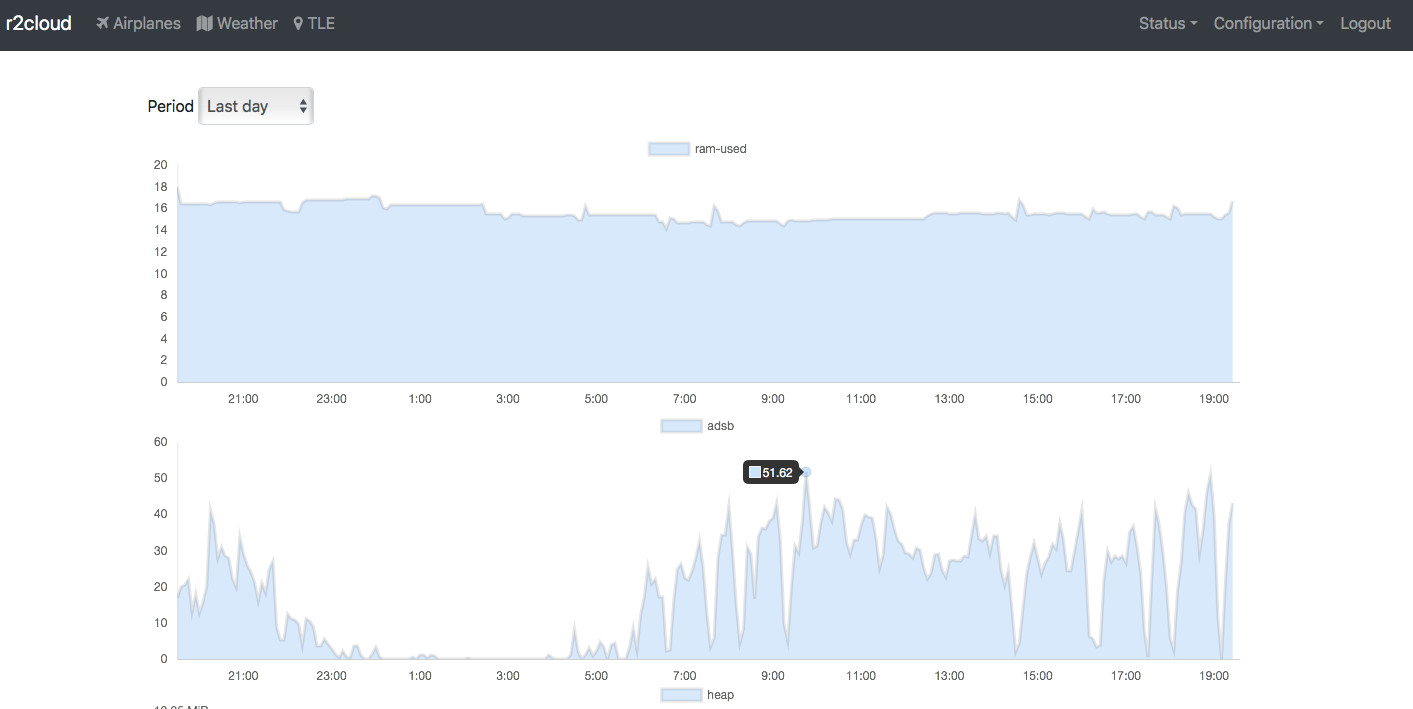
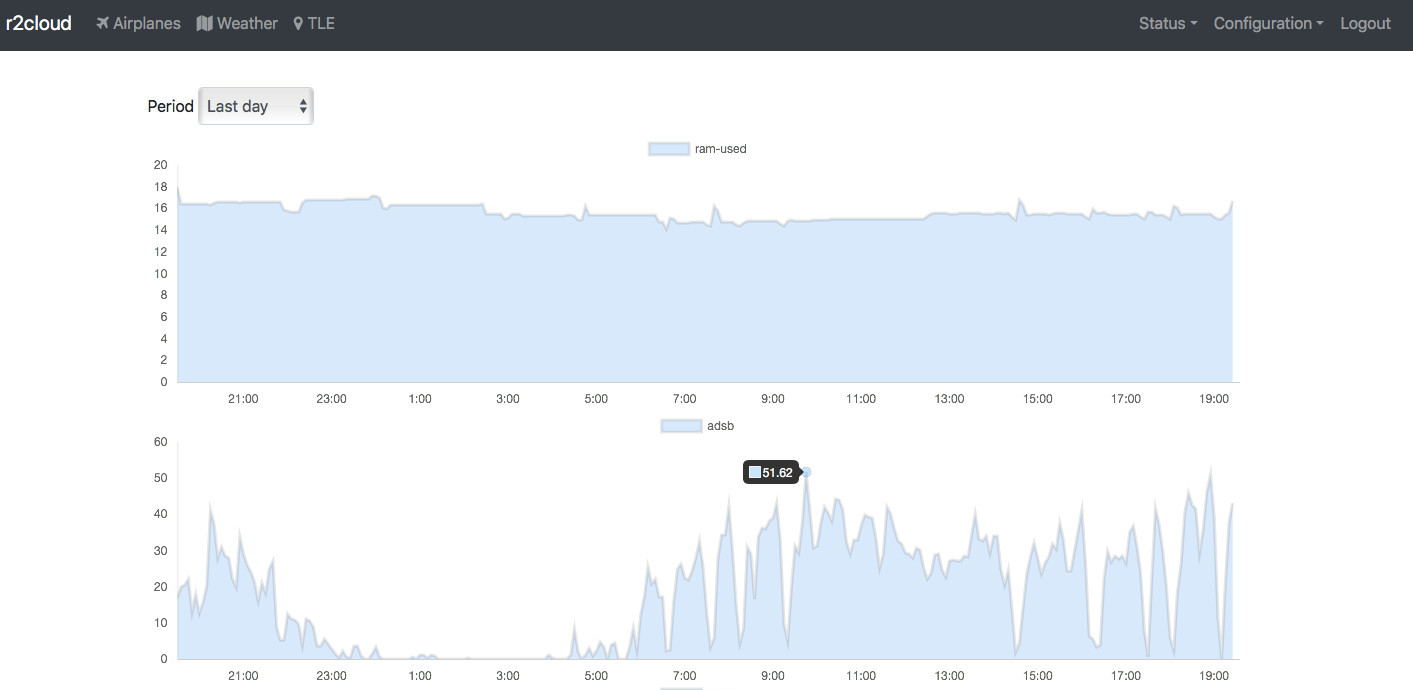
better screenshots

diff --git a/README.md b/README.md
@@ -7,7 +7,7 @@ r2cloud converts Raspberry PI into the base station which supports various radio
  
 # Screenshots ([r2cloud-ui](https://github.com/dernasherbrezon/r2cloud-ui))
 
-<img src="https://github.com/dernasherbrezon/r2cloud/raw/master/docs/screen1.jpg" width="25%">&nbsp;<img src="https://github.com/dernasherbrezon/r2cloud/raw/master/docs/screen2.jpg" width="25%">&nbsp;<img src="https://github.com/dernasherbrezon/r2cloud/raw/master/docs/screen3.jpg" width="25%">
+<img src="https://github.com/dernasherbrezon/r2cloud/raw/master/docs/screen1.jpg" width="25%">&nbsp;<img src="https://github.com/dernasherbrezon/r2cloud/raw/master/docs/screen2.jpg" width="25%">&nbsp;<img src="https://github.com/dernasherbrezon/r2cloud/raw/master/docs/screen3.jpg" width="25%">&nbsp;<img src="https://github.com/dernasherbrezon/r2cloud/raw/master/docs/screen4.jpg" width="25%">
  
 # Principal diagram
 
